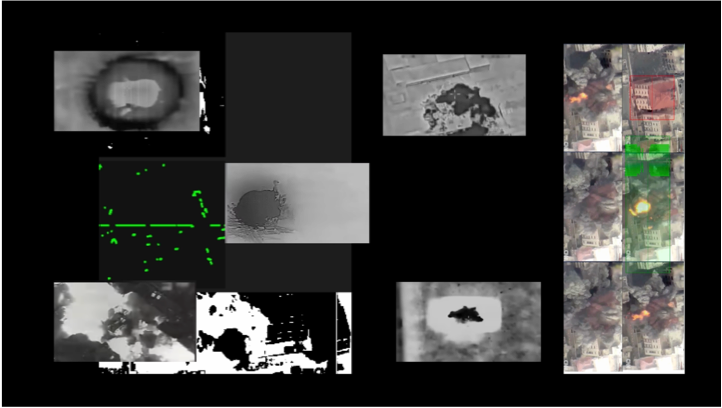
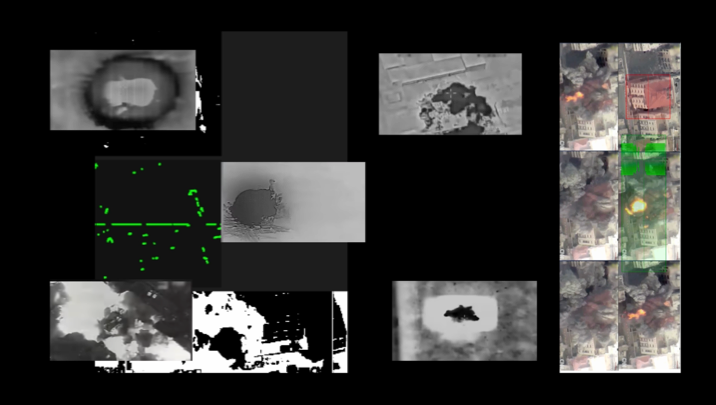
content alignment, code block optimization

diff --git a/src/pages/notes/the-asterisk.md b/src/pages/notes/the-asterisk.md
@@ -1,0 +1,132 @@
+---
+layout: ../../layouts/RawLayout.astro
+title: "The Asterisk: A Diffractive Prism"
+date: "2025-02-25"
+---
+
+# The Asterisk: A Diﬀractive Prism
+
+The asterisk * is a glyph of paradox—simultaneously a void and a plenitude, a silence and a scream. It is a symbol that gestures
+beyond itself, inviting interpretation while resisting fixation. As a placeholder and a portal, it operates across linguistic, technological,
+and cultural domains. This essay examines the asterisk’s evolution from an editorial tool to a marker of multiplicity, exploring its role in
+language, algorithmic systems, and artistic practice. By analyzing the asterisk through linguistics, assemblage theory, diﬀraction,
+Hauntology, and new materialism, it argues that this seemingly simple sign embodies the interdisciplinary ethos of media art: where
+ambiguity is not a flaw but a foundation.
+Linguistic Archaeology: The Asterisk as Omission and Amplification
+Etymologically, the asterisk derives from the Greek asteriskos (‘little star’), rooted in the Proto-Indo-European ster-(star). Initially a
+textual annotation, it was used by Aristarchus of Samothrace (2nd century BC), a philologist, to mark variant readings in Homer’s epics,
+Origen adopted it in biblical analysis to indicate textual additions. Over time, its role expanded from marking anomalies and omissions
+to signaling emphasis, multiplication, and censorship across diﬀerent linguistic systems.
+The East Asian textual tradition followed a diﬀerent trajectory. In ancient Chinese civilization, the three-stroke thinking mode is
+consistent with graphic expression. The origin of the three-stroke is unknown, and it is speculated that it was formed before the Xia
+Dynasty. Related to it is the divination civilization, which is a representative summary of primitive civilization. The earliest was object
+divination (such as yarrow), then symbol divination (such as three strokes), and finally text divination (such as I Ching). To know sixty-
+four, you must know eight first, and to know eight, you must know three first, while Chinese character corrections relied on radicals and
+punctuation rather than external symbols. This contrast reflects broader semiotic thinking: the former emphasizes the instrumentality
+and abstract transplantation of symbols, while the latter focuses on the visual symbiosis of symbols and context. Curiously, in the digital
+age, the asterisk can also be seen as composed of three strokes. This resonates with the ancient Chinese pattern.
+In historical linguistics, the asterisk marks reconstructed proto-forms (*proto-Indo-European) and later, in generative grammar, denotes
+ungrammatical constructions. Giorgio Graﬃ identifies its use in the works of pioneers such as Bloomfield and Benveniste, illustrating how its semantic expansion parallels shifts in linguistic paradigms.[^1]
+[^1]: Giorgio Graﬃ, “The Asterisk from Historical to Descriptive and Theoretical Linguistics: An Historical Note,” Historiographia Linguistica, May 2002. 
+
+
+This adaptability underscores the asterisk’s capacity to oscillate
+between reconstructed and grammatically incorrect, presence and non-existent, possibility and prohibition.
+Assemblage: The Asterisk as a Dynamic Signifier
+The asterisk (*), when isolated, is simply a character with no inherent role. However, once embedded in a system, it becomes an active
+part of an assemblage, shaping and being shaped by its context. According to Deleuze and Guattari’s A Thousand Plateaus, an
+assemblage is a dynamic configuration where components interact to generate new meanings and functions. Isolated, the asterisk (*) is
+merely a character; but within a system, it becomes an active part of an assemblage, shaping and being shaped by its context.
+In written text, the asterisk denotes emphasis or omission. In mathematics, it represents multiplication. On social media, it serves
+various roles, such as censoring words (f***). These examples illustrate how the asterisk’s meaning is not fixed but emergent, shaped by
+its interactions within diﬀerent linguistic, technological, and cultural systems.
+**manufacturing**, in general, is a simulated form in which one tries to give birth to a solution for facing the world and everyday life. A
+French Surrealism Communist poet, Louis Aragon, gave a concrete concept around the specific transformation sample that twinkles
+emotion and writing impulse into the experience: his unfinished work, The Defense of Infinity, is about desire and the failure of the
+desired object, oneself burnout with his exceeding passion in every moment…… But he organized the collapsed pieces. The domain of
+his writing is the intention to manufacture, or we can say, fantasy.
+In the 20th century, French Novelists began to focus on space rather than time. But Time is the root. A story needs to happen; the first
+step is ‘to happen’. That is, the description of someplace cannot exclusively sacrifice the **Time** element.
+Now we are in a space between still reconstructed and postmodern situations, and their pollution and subsequent pain that happens in
+our memories and bodies. From some illusion, the asterisk is even like an open wound, what do we understand through the traces of
+asterisks? Where do the signifiers that are excluded from the symbol system go?
+
+
+
+
+
+#### Embracing Indeterminacy: Diﬀraction and Multiplicity in Structural Parallels
+In digital world, the asterisk standing for any character or infinite possibility. A search for art may yield artifice, articulate, or artichoke—
+an algorithmic serendipity that collapses rigid categorical boundaries. This function resonates with artistic methodologies, such as
+Dadaist collage techniques, where found materials are fragmented and recombined to challenge norms. With Mallarmé reoriented
+poetic combinatorics into a compositional process that led to the "constellations" of concrete poetry, reversing its philosophical
+implications. Early Dadaism celebrated a colonially stereotyped language magic, but later it sought to formalize chance-driven poetics
+and strip away mimetic elements. Hans Arp’s 1920 random paper scraps prefigure Tristan Tzara’s 1923 algorithmic approach in “Pour
+faire un poème dadaïste,” where poetic elements are no longer fixed but freely permuted—transforming poetry into a dynamic
+algorithm.
+Tzara’s algorithm reimagines the Proteus verse by mathematically permuting texts at the word level. It applies the collage technique of
+fragments its text and produces chaos instead of harmonious cosmic order. By redefining verse as an open process, Tzara transformed
+his poem into a self-contained calculation—a poetic computer with random access memory conceived decades before Turing and von
+Neumann. His instructions translate seamlessly from French into code, shifting from partial to full automation.[^2] 
+William S. Burroughs recasts the chaos of Tzara’s poem as a shift from syntax to a pragmatic, performative operation. He describes the
+aesthetic as a “mescaline hallucination”—“seeing colors, tasting sounds, smelling forms.” In doing so, cut-up poetics revives the
+metaphysics of textual permutation, ultimately turning Tzara’s own approach against itself.
+In physics, diﬀraction occurs when waves bend and create overlapping patterns upon encountering obstacles. Similarly, the asterisk
+mirrors this behavior by acting as a symbolic aperture where meaning splinters into multiple trajectories. In language, it creates
+ambiguity between primary and secondary meanings, while in computing it serves as a wildcard symbol, both systems embracing
+unpredictable pathways and generating emergent outcomes from open-ended inputs.
+The asterisk, therefore, is not just a tool but a philosophy, one that reveals linguistic, technological, and artistic systems. By embracing
+the indeterminacy, artists resist fixed interpretations and instead engage in meaning-making as an ongoing, collaborative process.
+The Asterisk in Algorithmic and AI Systems
+The asterisk is a key tool in search algorithms because it serves as a wildcard that broadens query results. For example, a search for
+‘climate * change’ might return results like ‘climate policy change’ or ‘climate and change’. However, from a New Materialist
+perspective, search engines aren’t neutral. They are assemblages of users, algorithms, and databases that determine what information
+is surfaced and what is hidden. This leads to the question: does an asterisk in algorithmic system give users more access, or does it
+reinforce unseen structures of information control?
+In AI-generated text, the asterisk plays a regulatory role in censorship. Language models might replace or mask certain words with an
+asterisk to keep content within social norms. While this practice prevents oﬀensive content, it also raises ethical concerns: does the
+asterisk in AI-driven censorship safeguard inclusivity, or does it encode ideological biases into digital speech? In both cases, the
+asterisk actively shapes what information we see and how we communicate and governing the boundaries of discourse.
+The Asterisk in Gender-Inclusive Language: A Symbolic Gesture?
+Language has been granted too much powers.[^3] Linguistically, the asterisk is used in forms like *innen to promote gender inclusivity
+and challenge the traditional masculine/feminine binary. Although it provides a way to represent non-binary identities, its eﬀectiveness is
+debated: does *innen truly dismantle linguistic structures, or does it merely reconfigure them under a new norm? *innen is not an
+isolated symbol, it’s part of a wider network of institutional policies, social movements, and digital platforms. While some government
+bodies require its use and social media helps spread it, this practice might be more about elevating its symbolic rather than practical
+significance. This leads to a critical question: is *innen a catalyst for genuine social change, or has it become a politically charged
+emblem that reinforces symbolic inclusivity without enacting real transformation?
+
+
+Hauntology and the Asterisk: A Symbol of the Unresolved
+Beyond its immediate functions, the asterisk embodies Hauntological principles—Derrida’s concept of lingering pasts and unrealized
+futures. It frequently marks absence, omission, or unrealized potential, as seen in redacted text, missing historical records, and linguistic
+placeholders. This spectral quality raises profound questions: does the asterisk signify a “lost future,” a reality that could have been but
+never materialized?
+By continuously shifting across disciplines and media, * reinforces a state of ambiguity, contributing to a world where information is
+increasingly fragmented and “de-materialized.” In digital spaces, where omitted characters or censored words are veiled by *, the
+symbol becomes both a mask and a trace, concealing meaning while hinting at its presence. This paradox situates the asterisk at the
+heart of contemporary information politics—does it serve as a tool for self-determination, or does it enforce new regimes of digital
+control?
+Conclusion: Cosmic Metaphor and Unfinished Universe
+The asterisk exemplifies how a seemingly simple symbol operates across linguistic, technological, and cultural domains, existing not as
+an isolated sign but as an interactive, adaptable, and evolving entity. As a wildcard, it expands possibility and defies categorical rigidity.
+As a diﬀractive mark, it generates interference and noise between primary and secondary meanings. As a regulatory tool, it participates
+in algorithmic censorship and linguistic governance. As a Hauntological trace, it reminds us of that which is absent yet still exerts
+influence.
+Ultimately, the asterisk occupies a liminal space between empowerment and restriction, visibility and erasure, expansion and
+containment. Whether functioning as a censoring device, a mathematical operator, or a structural modifier in digital text, the asterisk
+continues to shape—and be shaped by—the systems in which it operates. It is a site of contestation, simultaneously opening
+possibilities while enforcing constraints, embodying the paradox of language, technology, and power. Beyond linguistics and
+technology, the asterisk operates cosmologically.
+“CONSTELLATION” describes both the spatial arrangement of the page elements and literally the arrangement of the stars in the
+firmament. This metaphor aligns with the concept of *the open work*, theorized by Umberto Eco, where art remains deliberately
+unfinished, demanding audience participation. In media art, such openness is vital; interactive installations, generative algorithms, and
+participatory films thrive on the asterisk’s ethos, transforming spectators into collaborators.
+The cross-civilization journey of this "little star" ultimately reveals the dual paradox of symbolic effectiveness: it is both a dialectical
+carrier of concealment/revelation and a field of cultural game of form/function.
+
+
+
+[^1]: Giorgio Graffi, “The Asterisk from Historical to Descriptive and Theoretical Linguistics: An Historical Note,” Historiographia Linguistica, May 2002. 
+[^2]: Florian Cramer, “Exe.cut[up]able Statements: Poetische Kalküle und Phantasmen des selbstausführenden Texts.”
+[^3]: Karen Barad, “Posthumanist Performativity: Toward an Understanding of How Matter Comes to Matter,” Signs 28, no. 3 (Spring 2003): 801–831.

diff --git a/src/pages/works/molar-security.md b/src/pages/works/molar-security.md
@@ -34,13 +34,15 @@ I provided my social media feeds and browsing records to AI system, allowing it 
 
 In an AI-driven landscape, this work examines Israel's military use of artificial intelligence, which generates target lists by analyzing phone signals, social media interactions, and satellite imagery. By combining screenshots and interfaces from actual military AI targeting systems, such as "The Gospel," I explore these inherent biases, double standards, and contradictions within AI warfare systems, which are designed to "tolerate a degree of collateral damage".
 
+![Video Still](/images/molar-still-04.png)
+
 ## 02. 堆栈 / Automated genocide 
 
 > The instrumentalizing of information turns the whole planet as a rationalized sphere of resource extraction. Dominators power may take the form of a infrastructure that enables them to extract information asymmetries from both capital and from subordinate classes and to accumulate asymmetric information about all of these activities.
 
 **LLM** (a guessing machine), makes consequential decisions that affect the lives of people under military occupation. In this video, I used the names of three interconnected military AI systems “Alchemist,” “The Gospel,” and “Fire Factory” as structural components, integrating my personal data and sound synthesis to speculate in reverse about the opacity and biases of this “black box” system.
 
-I refer to Benjamin Bratton's "Stack Theory" to analyze AI weapon systems across planetary-scale computational layers, from the Earth’s energy-consuming infrastructures to algorithmic cloud processing, urban destruction, and user-level decisions:
+I refer to Benjamin Bratton's **"Stack Theory"** to analyze AI weapon systems across planetary-scale computational layers, from the Earth’s energy-consuming infrastructures to algorithmic cloud processing, urban destruction, and user-level decisions:
 
 ![Stack Theory Diagram](/images/molar-diagram.png)
 *Figure: Analytics Diagram*
@@ -52,11 +54,12 @@ I refer to Benjamin Bratton's "Stack Theory" to analyze AI weapon systems across
 
 I compare this analysis with my personal experiences on digital platforms, where emotional vulnerabilities are converted into data and sold back as illusions of security - comfortable but fragile bubbles carefully maintained by algorithms.
 
-## 03. 音频与合成 / Audio Elements
+## 03. 音频与合成 / Audio Elements Synthesis
 
 For this video, I used an experimental sound-synthesis app "sketch synth" inspired by Iannis Xenakis's **UPIC system**. This app can transform hand-drawn sketches into synthesized sound, converting visual imagery into audio. By integrating this method, I explored the interplay, adding another layer to simulate the drone's view.
 
-![Video Still with Waveform](/images/molar-still-01.png)
+![Video Still with Surveillance](/images/molar-still-01.png)
+![Video Still](/images/molar-still-03.png)
 
 Through this project, I confront my own complicity as a provider of “surplus data” within the system, raising questions about agency, safety, and ethics in the AI-mediated world we inhabit.
 
